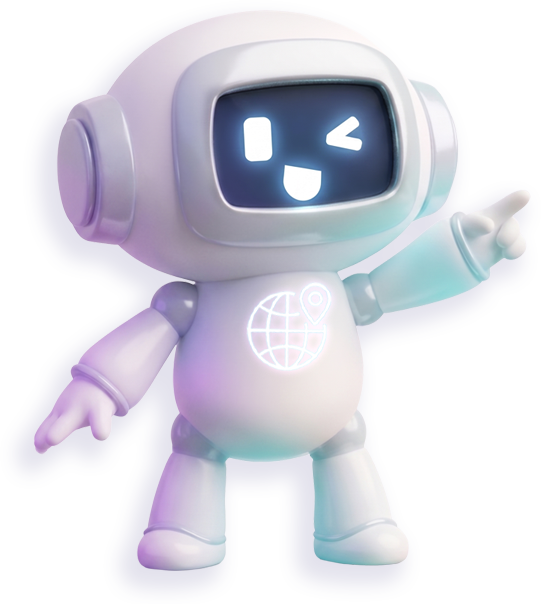
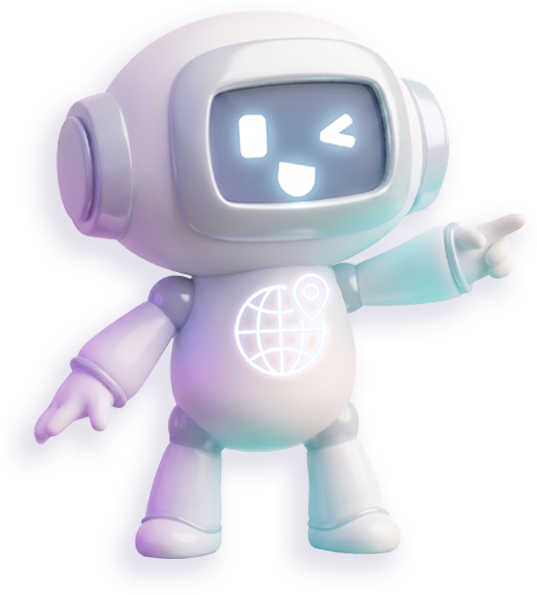
deploy

diff --git a/_guide/characters.html b/_guide/characters.html
@@ -42,7 +42,7 @@
       위치·크기만 다른 변형은 <span class="g-local">페이지 전용 스타일</span>로 덮어씀.</p>
     <ul class="g-toc"></ul>
 
-    <h2>0. 사회용 캐릭터 이미지 — 공용 파일(<code>sa/img/</code>)</h2>
+    <h2>0. 사회용 캐릭터 이미지 — 공용 파일(<code>sa/img/character/</code> 정리본)</h2>
     <p class="g-note">
       몸통에 <b>지구본 문양</b>이 있는 사회용 안내 로봇입니다. 포즈별로 이름을 정해 한 곳에 모았고, 여러 페이지에서 같은 파일을 가져다 씁니다(페이지 폴더에 복사하지 않음).
       이름 규칙은 <code>sa_&lt;표정&gt;_&lt;동작&gt;.png</code>.
@@ -55,53 +55,54 @@
     </p>
     <div class="g-list g-chars" style="display:flex;flex-wrap:wrap;gap:20px">
         <div class="g-item" style="width:560px">
-          <p class="g-meta"><b><code>sa_main.png</code></b> 482×581<br>기본 — 정면, 두 팔을 벌리고 웃음<br><span style="color:#666">인사·안내 기본</span></p>
-          <div class="g-view"><div class="g-stage bg-default" style="display:flex;align-items:flex-end;justify-content:center"><img src="../sa/img/sa_main.png" style="height:860px;width:auto;margin-bottom:50px" alt=""></div></div>
-        </div>
-        <div class="g-item" style="width:560px">
-          <p class="g-meta"><b><code>sa_wink_open.png</code></b> 475×577<br>정면, 두 팔을 벌리고 윙크<br><span style="color:#666">선택·확인 안내</span></p>
-          <div class="g-view"><div class="g-stage bg-default" style="display:flex;align-items:flex-end;justify-content:center"><img src="../sa/img/sa_wink_open.png" style="height:860px;width:auto;margin-bottom:50px" alt=""></div></div>
-        </div>
-        <div class="g-item" style="width:560px">
-          <p class="g-meta"><b><code>sa_wink_point.png</code></b> 543×572<br>윙크, 오른손으로 오른쪽 위를 가리킴(왼발을 뒤로 참) — 5장 중 가장 위<br><span style="color:#666">위쪽 대상(화면 윗부분)을 가리킬 때</span></p>
-          <div class="g-view"><div class="g-stage bg-default" style="display:flex;align-items:flex-end;justify-content:center"><img src="../sa/img/sa_wink_point.png" style="height:860px;width:auto;margin-bottom:50px" alt=""></div></div>
-        </div>
-        <div class="g-item" style="width:560px">
-          <p class="g-meta"><b><code>sa_wink_point2.png</code></b> 541×548<br>윙크, 오른손으로 오른쪽 위를 조금 낮게 가리킴<br><span style="color:#666">오른쪽 위 대상</span></p>
-          <div class="g-view"><div class="g-stage bg-default" style="display:flex;align-items:flex-end;justify-content:center"><img src="../sa/img/sa_wink_point2.png" style="height:860px;width:auto;margin-bottom:50px" alt=""></div></div>
-        </div>
-        <div class="g-item" style="width:560px">
-          <p class="g-meta"><b><code>sa_wink_point3.png</code></b> 544×534<br>윙크, 오른손을 오른쪽으로 거의 수평하게 가리킴<br><span style="color:#666">정면 오른쪽 대상(폰 화면 가운데)</span></p>
-          <div class="g-view"><div class="g-stage bg-default" style="display:flex;align-items:flex-end;justify-content:center"><img src="../sa/img/sa_wink_point3.png" style="height:860px;width:auto;margin-bottom:50px" alt=""></div></div>
-        </div>
-        <div class="g-item" style="width:560px">
-          <p class="g-meta"><b><code>sa_wink_point4.png</code></b> 542×528<br>윙크, 오른손을 오른쪽 아래로 뻗어 가리킴<br><span style="color:#666">오른쪽 아래 대상</span></p>
-          <div class="g-view"><div class="g-stage bg-default" style="display:flex;align-items:flex-end;justify-content:center"><img src="../sa/img/sa_wink_point4.png" style="height:860px;width:auto;margin-bottom:50px" alt=""></div></div>
-        </div>
-        <div class="g-item" style="width:560px">
-          <p class="g-meta"><b><code>sa_wink_point5.png</code></b> 524×534<br>윙크, 오른손을 오른쪽 아래로 더 내려 가리킴<br><span style="color:#666">화면 아래쪽 버튼·입력창(page11 사용)</span></p>
-          <div class="g-view"><div class="g-stage bg-default" style="display:flex;align-items:flex-end;justify-content:center"><img src="../sa/img/sa_wink_point5.png" style="height:860px;width:auto;margin-bottom:50px" alt=""></div></div>
+          <p class="g-meta"><b><code>sa_main.png</code></b> 498×600<br>기본 — 정면, 두 팔을 벌리고 웃음<br><span style="color:#666">인사·안내 기본</span></p>
+          <div class="g-view"><div class="g-stage bg-default" style="display:flex;align-items:flex-end;justify-content:center"><img src="../sa/img/character/sa_main.png" style="height:860px;width:auto;margin-bottom:50px" alt=""></div></div>
         </div>
         <div class="g-item" style="width:560px">
           <p class="g-meta"><b><code>sa_main_wave.png</code></b> 447×581<br>일반 웃는 얼굴(윙크 아님), 한 손을 들어 흔드는 인사<br><span style="color:#666">인사·시작·안내 도입</span></p>
-          <div class="g-view"><div class="g-stage bg-default" style="display:flex;align-items:flex-end;justify-content:center"><img src="../sa/img/sa_main_wave.png" style="height:860px;width:auto;margin-bottom:50px" alt=""></div></div>
+          <div class="g-view"><div class="g-stage bg-default" style="display:flex;align-items:flex-end;justify-content:center"><img src="../sa/img/character/sa_main_wave.png" style="height:860px;width:auto;margin-bottom:50px" alt=""></div></div>
+        </div>
+        <div class="g-item" style="width:560px">
+          <p class="g-meta"><b><code>sa_wink_open.png</code></b> 493×599<br>정면, 두 팔을 벌리고 윙크<br><span style="color:#666">선택·확인 안내</span></p>
+          <div class="g-view"><div class="g-stage bg-default" style="display:flex;align-items:flex-end;justify-content:center"><img src="../sa/img/character/sa_wink_open.png" style="height:860px;width:auto;margin-bottom:50px" alt=""></div></div>
+        </div>
+        <div class="g-item" style="width:560px">
+          <p class="g-meta"><b><code>sa_wink_point.png</code></b> 527×576<br>윙크, 오른손으로 오른쪽 위를 가리킴(왼발을 뒤로 참) — 4장 중 가장 위<br><span style="color:#666">위쪽 대상(화면 윗부분)을 가리킬 때</span></p>
+          <div class="g-view"><div class="g-stage bg-default" style="display:flex;align-items:flex-end;justify-content:center"><img src="../sa/img/character/sa_wink_point.png" style="height:860px;width:auto;margin-bottom:50px" alt=""></div></div>
+        </div>
+        <div class="g-item" style="width:560px">
+          <p class="g-meta"><b><code>sa_wink_point2.png</code></b> 541×548<br>윙크, 오른손으로 오른쪽 위를 조금 낮게 가리킴<br><span style="color:#666">오른쪽 위 대상</span></p>
+          <div class="g-view"><div class="g-stage bg-default" style="display:flex;align-items:flex-end;justify-content:center"><img src="../sa/img/character/sa_wink_point2.png" style="height:860px;width:auto;margin-bottom:50px" alt=""></div></div>
+        </div>
+        <div class="g-item" style="width:560px">
+          <p class="g-meta"><b><code>sa_wink_point3.png</code></b> 548×548<br>윙크, 오른손을 오른쪽으로 거의 수평하게 가리킴<br><span style="color:#666">정면 오른쪽 대상(폰 화면 가운데)</span></p>
+          <div class="g-view"><div class="g-stage bg-default" style="display:flex;align-items:flex-end;justify-content:center"><img src="../sa/img/character/sa_wink_point3.png" style="height:860px;width:auto;margin-bottom:50px" alt=""></div></div>
+        </div>
+        <div class="g-item" style="width:560px">
+          <p class="g-meta"><b><code>sa_wink_point4.png</code></b> 535×545<br>윙크, 오른손을 오른쪽 아래로 뻗어 가리킴<br><span style="color:#666">오른쪽 아래 대상·화면 아래쪽 버튼·입력창(page11 사용)</span></p>
+          <div class="g-view"><div class="g-stage bg-default" style="display:flex;align-items:flex-end;justify-content:center"><img src="../sa/img/character/sa_wink_point4.png" style="height:860px;width:auto;margin-bottom:50px" alt=""></div></div>
+        </div>
+        <div class="g-item" style="width:560px">
+          <p class="g-meta"><b><code>sa_point_front.png</code></b> 537×595<br>정면, 오른쪽 위를 가리키고 왼팔은 내림(얼굴이 어두운 화면색)<br><span style="color:#666">화면 속 폰·모니터 가리킬 때</span></p>
+          <div class="g-view"><div class="g-stage bg-default" style="display:flex;align-items:flex-end;justify-content:center"><img src="../sa/img/character/sa_point_front.png" style="height:860px;width:auto;margin-bottom:50px" alt=""></div></div>
         </div>
         <div class="g-item" style="width:560px">
           <p class="g-meta"><b><code>sa_wink_present.png</code></b> 504×582<br>윙크, 왼손은 가슴에 얹고 오른손을 펴서 오른쪽으로 내밂(소개·제시 동작)<br><span style="color:#666">선택지·목록을 소개할 때(page12 2단계)</span></p>
-          <div class="g-view"><div class="g-stage bg-default" style="display:flex;align-items:flex-end;justify-content:center"><img src="../sa/img/sa_wink_present.png" style="height:860px;width:auto;margin-bottom:50px" alt=""></div></div>
+          <div class="g-view"><div class="g-stage bg-default" style="display:flex;align-items:flex-end;justify-content:center"><img src="../sa/img/character/sa_wink_present.png" style="height:860px;width:auto;margin-bottom:50px" alt=""></div></div>
         </div>
         <div class="g-item" style="width:560px">
-          <p class="g-meta"><b><code>sa_point_front.png</code></b> 541×604<br>정면, 오른쪽 위를 가리키고 왼팔은 내림(얼굴이 어두운 화면색)<br><span style="color:#666">화면 속 폰·모니터 가리킬 때</span></p>
-          <div class="g-view"><div class="g-stage bg-default" style="display:flex;align-items:flex-end;justify-content:center"><img src="../sa/img/sa_point_front.png" style="height:860px;width:auto;margin-bottom:50px" alt=""></div></div>
+          <p class="g-meta"><b><code>sa_smile_present.png</code></b> 528×595<br>웃는 눈(^ ^)과 활짝 벌린 입, 오른팔을 오른쪽으로 내밂(소개·제시 동작)<br><span style="color:#666">선택지·목록을 소개할 때(윙크 없는 버전)</span></p>
+          <div class="g-view"><div class="g-stage bg-default" style="display:flex;align-items:flex-end;justify-content:center"><img src="../sa/img/character/sa_smile_present.png" style="height:860px;width:auto;margin-bottom:50px" alt=""></div></div>
         </div>
         <div class="g-item" style="width:560px">
           <p class="g-meta"><b><code>sa_wink_jump.png</code></b> 567×601<br>윙크, 한 손을 흔들며 점프<br><span style="color:#666">반가움·성공</span></p>
-          <div class="g-view"><div class="g-stage bg-default" style="display:flex;align-items:flex-end;justify-content:center"><img src="../sa/img/sa_wink_jump.png" style="height:860px;width:auto;margin-bottom:50px" alt=""></div></div>
+          <div class="g-view"><div class="g-stage bg-default" style="display:flex;align-items:flex-end;justify-content:center"><img src="../sa/img/character/sa_wink_jump.png" style="height:860px;width:auto;margin-bottom:50px" alt=""></div></div>
         </div>
         <div class="g-item" style="width:560px">
-          <p class="g-meta"><b><code>sa_happy_jump.png</code></b> 538×558<br>활짝 웃는 눈, 두 팔을 들고 점프<br><span style="color:#666">마무리·축하</span></p>
-          <div class="g-view"><div class="g-stage bg-default" style="display:flex;align-items:flex-end;justify-content:center"><img src="../sa/img/sa_happy_jump.png" style="height:860px;width:auto;margin-bottom:50px" alt=""></div></div>
+          <p class="g-meta"><b><code>sa_happy_jump.png</code></b> 538×558<br>활짝 웃는 눈, 두 팔을 들고 점프<br><span style="color:#666">마무리·축하(page12 사용)</span></p>
+          <div class="g-view"><div class="g-stage bg-default" style="display:flex;align-items:flex-end;justify-content:center"><img src="../sa/img/character/sa_happy_jump.png" style="height:860px;width:auto;margin-bottom:50px" alt=""></div></div>
         </div>
+    </div>
     </div>
     </div>
     </div>

diff --git a/sa/04/page11.html b/sa/04/page11.html
@@ -9,7 +9,7 @@
         /* 디자인 반영 - 디자인/사회4차시 11p-1. 프롬프트 문장이 타이핑되고, 조이스틱 레버를 내리면 왼쪽 화면에서 스피너가 돈 뒤 이모티콘(샘플 조각 img/gen_boy.png)이 나타나고
            그제서야 '다음' 버튼이 나타남(페이지 이동은 없음 — page12는 다음 버튼으로만 이동) */
         .p11-machine{position:absolute;left:185px;top:87px;width:1550px;height:826px;box-sizing:border-box;background:linear-gradient(#faf8ff 0,#fff 14%,#fff 36%,#e9eaf2 58%,#d5d7ea 82%,#e4e1f4 100%);border:solid 28px #2a6bd0;border-radius:120px;box-shadow:0 14px 0 0 rgba(63,111,181,.25)}
-        .p11-machine .next-btn.card-btn.is-popup{right:128px;bottom:0px;z-index:10}
+        .p11-machine .next-btn.card-btn.is-start{right:100px;bottom:-9px;z-index:10}
         .p11-title{position:absolute;left:50%;top:-70px;width:880px;height:120px;margin:0 0 0 -440px;box-sizing:border-box;padding-top:8px;display:flex;align-items:center;justify-content:center;background:var(--c-white);border:solid 15px #2a6bd0;border-radius:60px;box-shadow:0 15px 0 0 #e0e7fb;font-family:'Cafe24 Ssurround';font-size:70px;color:#053c85;letter-spacing:-0.05em;gap:10px}
         .p11-title span{color:#266cc8}
         .p11-prompt{position:absolute;left:50px;top:95px;width:1394px;height:146px;box-sizing:border-box;padding:0 46px;display:flex;align-items:center;background:#1c1840;border: solid 12px #eef0ff;box-shadow: 0 0 0px 2px #8f96cc;border-radius:30px;font-family:'Cafe24 Ssurround';font-size:60px;color:#e9f6ff;letter-spacing:-0.05em;white-space:nowrap}
@@ -26,7 +26,7 @@
         .p11-console{position:absolute;left:959px;top:272px;width:485px;height:455px;box-sizing:border-box;background:#c7d6f2;border-radius:20px;box-shadow:0 6px 0 0 #fff,inset -30px -30px 15px rgba(140,168,224,.30)}
         /* 콘솔 왼쪽 위의 세로 줄 3개(box-shadow로 31px씩 복제) */
         .p11-console:before{content:'';position:absolute;left:73px;top:13px;width:12px;height:46px;border-radius:7px;background:#4a6286;box-shadow:31px 0 0 #4a6286,62px 0 0 #4a6286}
-        .p11-console:after{content:'';position:absolute;left:76px;bottom:-70px;width:320px;height:95px;background:linear-gradient(#0a2a73,#0a2a73) right 20px top 14px/16px 64px no-repeat,linear-gradient(#0a2a73,#0a2a73) right 51px top 14px/16px 64px no-repeat,linear-gradient(#0a2a73,#0a2a73) right 82px top 14px/16px 64px no-repeat,#2a6bd0;border:solid 11px #1b4fae;border-radius:36px}
+        .p11-console:after{content:'';position:absolute;left:38px;bottom:-70px;width:384px;height:103px;background:linear-gradient(#0a2a73,#0a2a73) right 20px top 14px/16px 64px no-repeat,linear-gradient(#0a2a73,#0a2a73) right 51px top 14px/16px 64px no-repeat,linear-gradient(#0a2a73,#0a2a73) right 82px top 14px/16px 64px no-repeat,#2a6bd0;border:solid 11px #1b4fae;border-radius:36px}
 
         /* 조이스틱: 레버를 클릭(또는 아래로 드래그)하면 아래로 내려가는 효과 */
         .p11-joystick{touch-action:none;position:absolute;left:0;top:0;width:485px;height:455px;background:none;border:0;padding:0;cursor:pointer;z-index:2}
@@ -73,7 +73,7 @@
                 </div>
               </button>
             </div>
-            <a href="page12.html" class="js-nav-effect card-btn is-popup next-btn is-off js-sfx" data-sound="sound/click.mp3">다음</a>
+            <a href="page12.html" class="js-nav-effect card-btn is-start next-btn is-off js-sfx" data-sound="sound/click.mp3">다음</a>
           </div>
 
           

diff --git a/css/common.css b/css/common.css
@@ -892,7 +892,7 @@ html:not(.is-shown) *,html:not(.is-shown) *:before,html:not(.is-shown) *:after{a
 .guide-set .guide-bubble{left:var(--gb-left,168px);bottom:var(--gb-bottom,636px);width:var(--gb-w,507px);min-height:172px;font-size:51px;letter-spacing:-0.06em;pointer-events:auto}
 .guide-set .guide-character{position:absolute;left:var(--gc-left,150px);bottom:var(--gc-bottom,37px);top:auto;width:var(--gc-w,auto);height:auto;display:block}
 .guide-set .guide-character img{display:block;width:100%;height:auto;max-width:none;max-height:none}
-/* 포즈별 캐릭터 기본 좌표(sa/img/sa_*.png 와 같은 이름): <div class="guide-set is-wink-point5"> 처럼 붙이면 적용. 페이지에서 --gc-left/--gc-bottom 을 다시 쓰면 그 값이 이김 */
+/* 포즈별 캐릭터 기본 좌표(sa/img/sa_*.png 와 같은 이름): <div class="guide-set is-wink-point4"> 처럼 붙이면 적용. 페이지에서 --gc-left/--gc-bottom 을 다시 쓰면 그 값이 이김 */
 .guide-set.is-main{--gc-left:145px;--gc-bottom:40px}
 .guide-set.is-main-wave{--gc-left:145px;--gc-bottom:40px}
 .guide-set.is-wink-open{--gc-left:150px;--gc-bottom:40px}
@@ -900,7 +900,6 @@ html:not(.is-shown) *,html:not(.is-shown) *:before,html:not(.is-shown) *:after{a
 .guide-set.is-wink-point2{--gc-left:151px;--gc-bottom:40px}
 .guide-set.is-wink-point3{--gc-left:110px;--gc-bottom:60px}
 .guide-set.is-wink-point4{--gc-left:151px;--gc-bottom:40px}
-.guide-set.is-wink-point5{--gc-left:110px;--gc-bottom:60px}
 .guide-set.is-wink-present{--gc-left:153px;--gc-bottom:37px}
 .guide-set.is-point-front{--gc-left:151px;--gc-bottom:40px}
 .guide-set.is-wink-jump{--gc-left:138px;--gc-bottom:40px}
@@ -1026,6 +1025,7 @@ main > .next-btn.card-btn{min-width:0;width:390px;height:110px;margin-bottom:30p
 .intro-panel .next-btn{right:50%;transform:translateX(50%);bottom:50px}
 .intro-panel .next-btn .card-btn{letter-spacing:0.2em;padding-left:10px}
 .next-btn.card-btn.is-start{letter-spacing:0.2em;padding-left:10px;bottom:50px}
+.intro-panel .next-btn.card-btn.is-start{right:50%}
 .next-btn.card-btn.is-popup{letter-spacing:0.2em;padding:12px 0 0 10px}
 .intro-character.is-right{left:auto;right:0;top:auto;bottom:190px;max-width:none;z-index:3}
 .intro-character.is-right img{object-position:center top}

diff --git a/sa/01/page11.html b/sa/01/page11.html
@@ -6,7 +6,7 @@
     <title>나의 미래 모습 만들기</title>
     <link rel="stylesheet" href="../../css/common.css">
     <style>
-        /* 폰 틀은 공용 .phone-frame(has-cam), ChatGPT 대화 화면은 CSS. 안내 캐릭터는 공용 ../img/sa_wink_point5.png, 손가락은 공용 pointFingerAt */
+        /* 폰 틀은 공용 .phone-frame(has-cam), ChatGPT 대화 화면은 CSS. 안내 캐릭터는 공용 ../img/sa_wink_point4.png, 손가락은 공용 pointFingerAt */
         .p11-sugg{position:absolute;left:30px;top:686px;display:flex;flex-direction:column;gap:22px;font-size:14px;color:#222}
         .p11-sugg span{display:flex;align-items:center;gap:12px}
         .p11-sugg i{flex:none;width:22px;height:22px;border-radius:6px;background:linear-gradient(135deg,#5bc0f8,#f7b84b)}
@@ -21,9 +21,9 @@
     <div id="stage-spacer">
       <div id="stage" class="stage">
         <main class="bg-default">
-          <div class="guide-set is-wink-point5">
+          <div class="guide-set is-wink-point4">
             <p class="guide-bubble is-center">입력창을<br>클릭해보세요.</p>
-            <div class="guide-character"><img src="../img/sa_wink_point5.png" alt=""></div>
+            <div class="guide-character"><img src="../img/sa_wink_point4.png" alt=""></div>
           </div>
 
           <div class="phone-frame has-cam">

diff --git a/sa/01/page19.html b/sa/01/page19.html
@@ -6,7 +6,7 @@
     <title>프롬프트를 고쳐라</title>
     <link rel="stylesheet" href="../../css/common.css">
     <style>
-        /* 안내 로봇은 공용 sa/img/sa_wink_cheer.png(sa/02 마무리와 같은 자리), 제목·판은 공용 .end-*, 별 줄은 CSS */
+        /* 안내 로봇은 img/p19_cheer.png(sa/02 마무리와 같은 자리), 제목·판은 공용 .end-*, 별 줄은 CSS */
         .p19-character{position:absolute;left:10px;top:50px;z-index:10}
         .p19-character img{display:block}
         .p19-stars{position:absolute;left:0;right:0;margin:0 auto;bottom:62px;width:772px;height:168px;box-sizing:border-box;border:solid 6px #8db4ea;border-radius:84px;background:#023a96;display:flex;align-items:center;justify-content:space-evenly;padding:0 20px}
@@ -22,7 +22,7 @@
     <div id="stage-spacer">
       <div id="stage" class="stage">
         <main class="bg-default">
-          <div class="p19-character"><img src="../img/sa_wink_cheer.png" alt=""></div>
+          <div class="p19-character"><img src="img/p19_cheer.png" alt=""></div>
           <p class="end-title">미션 성공!</p>
           <div class="end-panel">
             <p class="end-desc">모든 프롬프트를<br>성공적으로 수정했어요!</p>

diff --git a/sa/04/page03.html b/sa/04/page03.html
@@ -25,7 +25,7 @@
             <div class="ribbon-wrap p03-ribbonwrap"><p class="ribbon p03-ribbon">마음 표현 준비 완료 배지 획득!</p></div>
             <p class="intro-lead">친구의 말과 상황을 살펴보면<br>마음을 더 잘 이해할 수 있어요.</p>
 
-            <a href="page04.html" class="js-nav-effect"><span class="card-btn is-start next-btn js-sfx" data-sound="sound/click.mp3">다음</span></a>
+            <a href="page04.html" class="js-nav-effect card-btn is-start next-btn js-sfx" data-sound="sound/click.mp3">다음</a>
           </div>
 
         </main>

diff --git a/sa/04/page05.html b/sa/04/page05.html
@@ -21,7 +21,7 @@
             </ol>
           </div>
 
-          <a href="page06.html" class="js-nav-effect next-btn-intro"><span class="card-btn is-start js-sfx" data-sound="sound/click.mp3">시작하기</span></a>
+          <a href="page06.html" class="js-nav-effect next-btn-intro card-btn is-start js-sfx" data-sound="sound/click.mp3">시작하기</a>
         </main>
       </div>
     </div>
